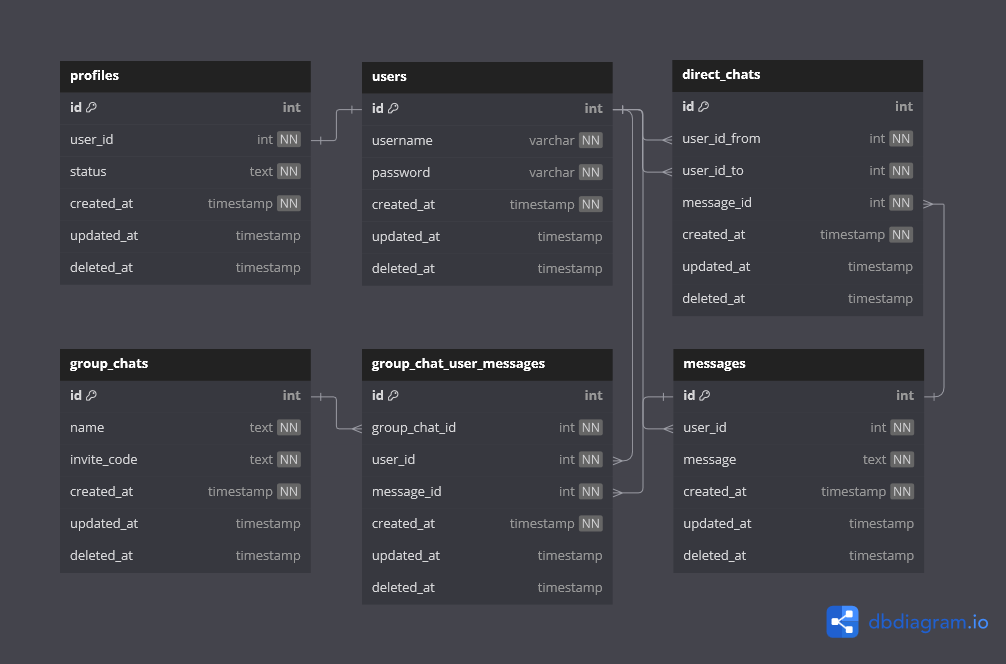
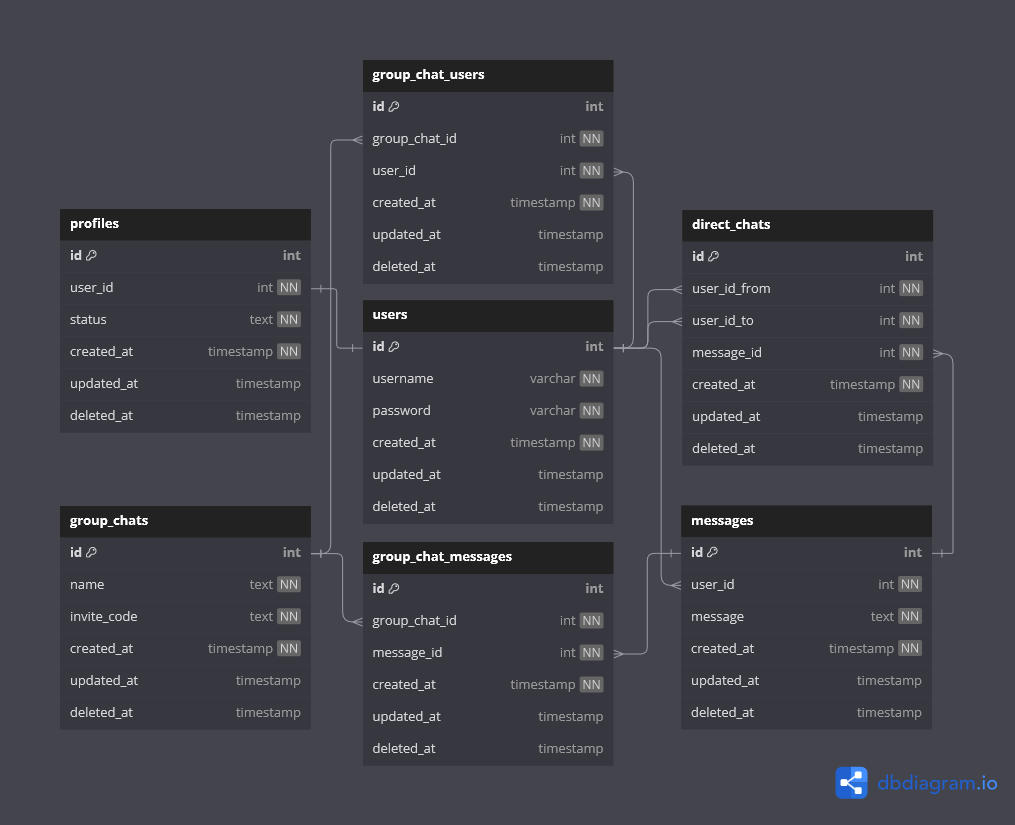
modify readme, fix erd, add flowchart

diff --git a/readme.md b/readme.md
@@ -1,19 +1,16 @@
 
 ## Chatting App
 Chatting App dengan pubnub
-Tech stack
+tech stack
 :-
 *Frontend* - next js
 *Backend* - next js
 *Database* - postgresql
 
-**Table of Contents**
-
-<!--ts-->
-    * [Database ERD](#database-erd)
-<!--te-->
-
 ### Database ERD
-![chatting-app-erd](https://github.com/aotti/chatting-app/blob/main/docs/images/chatting_app_erd.png?raw=true)
+<img src="https://github.com/aotti/chatting-app/blob/main/docs/images/chatting_app_erd.png" width="70%" height="70%">
+
+### Flowchart
+<img src="https://github.com/aotti/chatting-app/blob/main/docs/images/chatting_app_flowchart.png" width="70%" height="70%">
 
 @aotti
